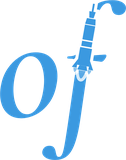
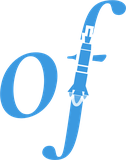
Lower the rocket further inside the f
Claude-Session: https://claude.ai/code/session_01MZECRz1zKExAjjwG7KfMTn

Changed region(s): [[0.5238, 0.0, 0.8095, 0.6875]]

diff --git a/hosting.html b/hosting.html
@@ -6,8 +6,8 @@
   <title>ofHuntsville - Free Websites for Huntsville</title>
   <meta name="description" content="Free websites for Huntsville's local businesses, artists and makers, at yourname.ofhuntsville.org.">
   <meta name="robots" content="noindex">
-  <link rel="icon" type="image/png" sizes="32x32" href="hosting/ofh-icon-32.png?v=12">
-  <link rel="apple-touch-icon" href="hosting/ofh-icon-180.png?v=12">
+  <link rel="icon" type="image/png" sizes="32x32" href="hosting/ofh-icon-32.png?v=13">
+  <link rel="apple-touch-icon" href="hosting/ofh-icon-180.png?v=13">
   <link rel="preconnect" href="https://fonts.googleapis.com">
   <link rel="preconnect" href="https://fonts.gstatic.com" crossorigin>
   <link href="https://fonts.googleapis.com/css?family=Montserrat:400,500,600,700,800|Cormorant+Garamond:500i,600i&display=swap" rel="stylesheet">
@@ -167,7 +167,7 @@
 <body>
   <nav class="nav">
     <div class="container">
-      <a class="wordmark" href="#top"><img class="of" src="hosting/of-rocket.png?v=12" alt="of">Huntsville</a>
+      <a class="wordmark" href="#top"><img class="of" src="hosting/of-rocket.png?v=13" alt="of">Huntsville</a>
       <div class="nav-links">
         <a href="#how" class="hide-sm">How it works</a>
         <a href="#pricing" class="hide-sm">Pricing</a>
@@ -317,7 +317,7 @@
     <div class="container">
       <div class="row">
         <div>
-          <a class="wordmark" href="#top"><img class="of" src="hosting/of-rocket.png?v=12" alt="of">Huntsville</a>
+          <a class="wordmark" href="#top"><img class="of" src="hosting/of-rocket.png?v=13" alt="of">Huntsville</a>
           <p class="tag">Websites for the people of Huntsville.</p>
         </div>
         <nav>
